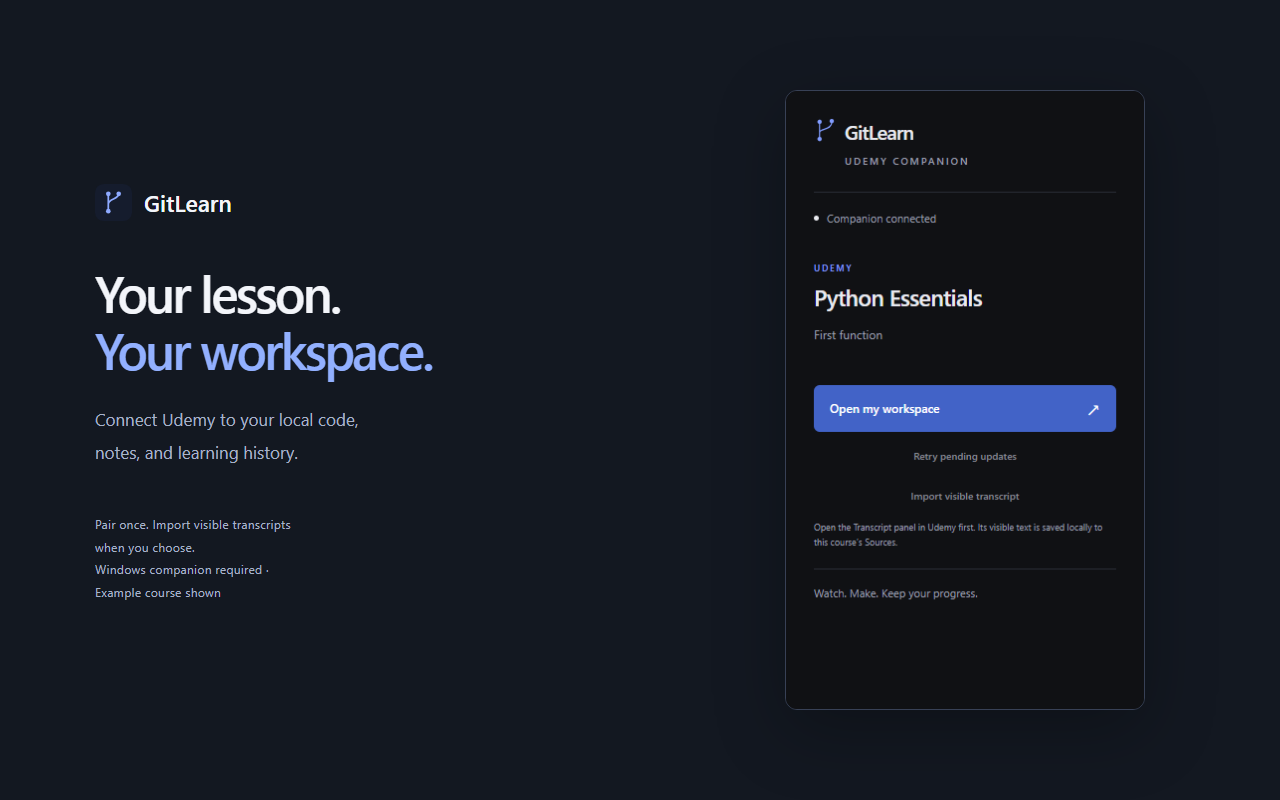
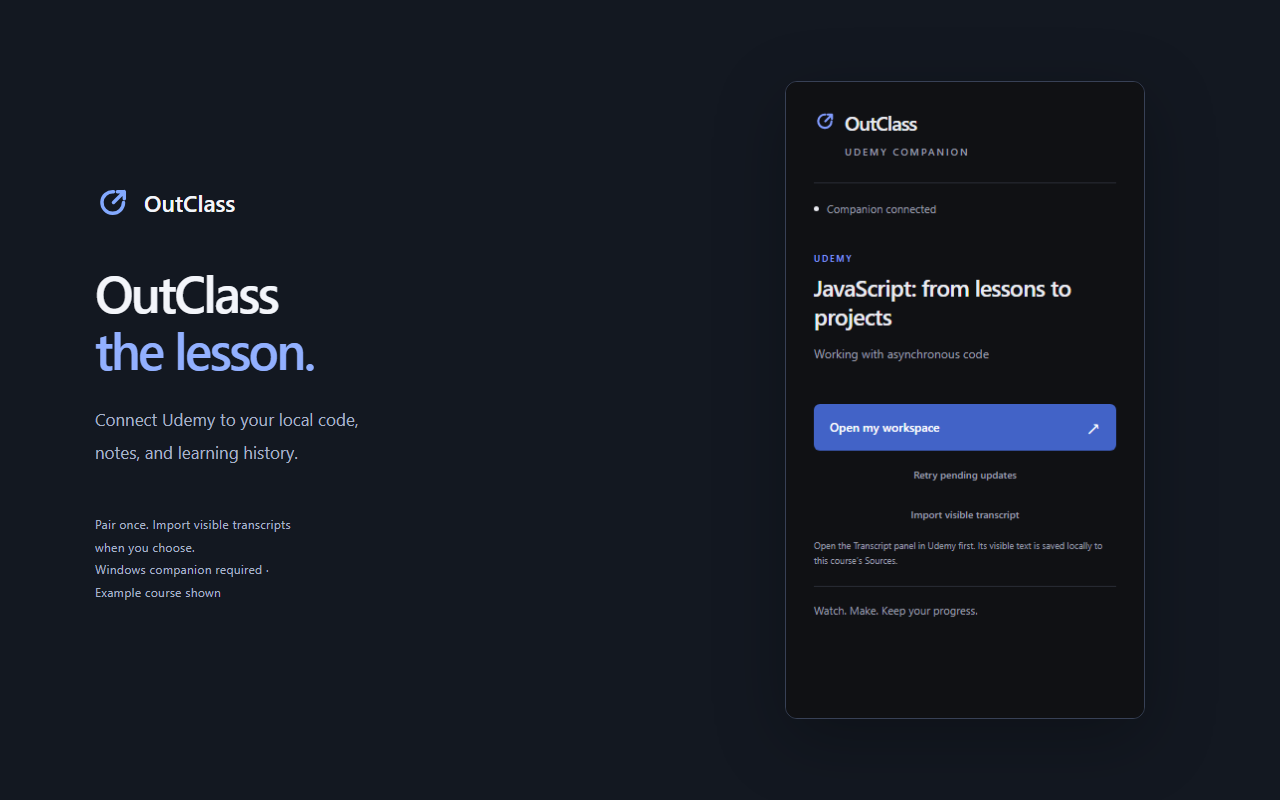
chore: complete OutClass repository and Chrome listing rename

diff --git a/tests/site/site.spec.ts b/tests/site/site.spec.ts
@@ -13,11 +13,11 @@ test("public site explains the desktop product, adapts to phones, and has honest
   );
   await expect(page.locator("#windows-download")).toHaveAttribute(
     "href",
-    /\/releases\/download\/v[\d.]+\/(?:GitLearn|OutClass)-Setup-[\d.]+\.exe$/,
+    /\/aayups31\/OutClass\/releases\/download\/v[\d.]+\/(?:GitLearn|OutClass)-Setup-[\d.]+\.exe$/,
   );
   await expect(page.locator("#extension-download")).toHaveAttribute(
     "href",
-    /\/releases\/download\/v[\d.]+\/(?:GitLearn|OutClass)-Chrome-[\d.]+\.zip$/,
+    /\/aayups31\/OutClass\/releases\/download\/v[\d.]+\/(?:GitLearn|OutClass)-Chrome-[\d.]+\.zip$/,
   );
   await page.getByRole("tab", { name: "Ask the course", exact: true }).click();
   await expect(page.getByRole("tabpanel")).toContainText("Imported transcript");
@@ -85,7 +85,7 @@ test("public landing is complete without JavaScript", async ({ browser }) => {
   await expect(page.getByRole("heading", { level: 1 })).toBeVisible();
   await expect(page.locator("#windows-download")).toHaveAttribute(
     "href",
-    /github.com\/aayups31\/GitLearn\/releases\/download\/v[\d.]+\/(?:GitLearn|OutClass)-Setup-[\d.]+\.exe$/,
+    /github.com\/aayups31\/OutClass\/releases\/download\/v[\d.]+\/(?:GitLearn|OutClass)-Setup-[\d.]+\.exe$/,
   );
   await page.locator("#windows-download").scrollIntoViewIfNeeded();
   await expect(page.locator("#windows-download")).toBeVisible();

diff --git a/src/site/index.html b/src/site/index.html
@@ -688,7 +688,7 @@ events = [
           <a
             id="windows-download"
             class="button primary"
-            href="https://github.com/aayups31/GitLearn/releases/download/v0.4.2/OutClass-Setup-0.4.2.exe"
+            href="https://github.com/aayups31/OutClass/releases/download/v0.4.2/OutClass-Setup-0.4.2.exe"
             >Download the Windows preview <span aria-hidden="true">↗</span></a
           >
           <p id="windows-status" class="download-note">
@@ -697,7 +697,7 @@ events = [
           <a
             id="extension-download"
             class="button secondary"
-            href="https://github.com/aayups31/GitLearn/releases/download/v0.4.2/OutClass-Chrome-0.4.2.zip"
+            href="https://github.com/aayups31/OutClass/releases/download/v0.4.2/OutClass-Chrome-0.4.2.zip"
             >Get the browser extension <span aria-hidden="true">↗</span></a
           >
           <p id="extension-status" class="download-note">
@@ -728,7 +728,7 @@ events = [
         <div>
           <a href="privacy.html">Privacy</a
           ><a
-            href="https://github.com/aayups31/GitLearn"
+            href="https://github.com/aayups31/OutClass"
             target="_blank"
             rel="noopener noreferrer"
             >Source code ↗</a

diff --git a/src/site/assets/site.js b/src/site/assets/site.js
@@ -196,7 +196,7 @@ fetch(
       if (
         url.protocol !== "https:" ||
         url.hostname !== "github.com" ||
-        !url.pathname.startsWith("/aayups31/GitLearn/releases/download/")
+        !url.pathname.startsWith("/aayups31/OutClass/releases/download/")
       )
         continue;
       document.getElementById(`${id}-download`).href = url.href;

diff --git a/docs/learning-to-contribution-roadmap.md b/docs/learning-to-contribution-roadmap.md
@@ -1,4 +1,4 @@
-# GitLearn: from tutorials to independent work
+# OutClass: from tutorials to independent work
 
 Updated October 10, 2026. Stage A shipped in 0.3. The 0.4 preview adds a bounded working slice of B–F: project commands and starters, six curated practical briefs, recorded checks and help use, reviews and personal search, checked issue discovery, and a separate contribution workspace with local PR drafts. This does not mark every broader stage complete. [Current build](current-build.md) records delivered behavior. This roadmap takes priority over the older platform-expansion order in [implementation-plan.md](implementation-plan.md). [Learning architecture](learning-architecture.md) defines the supporting boundaries.
 
@@ -8,7 +8,7 @@ Remaining depth includes learner goals and time budgets, validated generated/tra
 
 ## Product outcome
 
-GitLearn should help a learner use a tutorial, understand an implementation, practice without the example, build a complete project, and contribute responsibly to a real repository. The product should answer three practical questions: where do I continue, what should I try myself, and what evidence shows I can do it?
+OutClass should help a learner use a tutorial, understand an implementation, practice without the example, build a complete project, and contribute responsibly to a real repository. The product should answer three practical questions: where do I continue, what should I try myself, and what evidence shows I can do it?
 
 ```mermaid
 flowchart LR
@@ -58,11 +58,11 @@ Every exercise has a specific objective, prerequisites, source references, start
 
 Record attempts separately, including code revision, actual test results, hints used, solution revealed, and the learner's explanation. Give concrete feedback about the failed behavior and a useful next step. Preserve earlier attempts for comparison.
 
-Offer a later variation without the original example. An unassisted attempt means no GitLearn hints or solution were used in that attempt; the app cannot prove whether outside help was used. Passed tests demonstrate the tested behavior, not universal mastery. If execution is unsupported, show Needs verification instead of success.
+Offer a later variation without the original example. An unassisted attempt means no OutClass hints or solution were used in that attempt; the app cannot prove whether outside help was used. Passed tests demonstrate the tested behavior, not universal mastery. If execution is unsupported, show Needs verification instead of success.
 
 Acceptance: a changed requirement requires applying the concept; failing code does not pass; revealed solutions are recorded; attempts survive restart; tests cover behavior rather than copying implementation; the learner can explain the change and revisit it later.
 
-The tutoring design draws on [Khan Academy's published approach](https://blog.khanacademy.org/khan-academys-7-step-approach-to-prompt-engineering-for-khanmigo/), including feedback and self-explanation. [Karpicke and Blunt's retrieval-practice study](https://pubmed.ncbi.nlm.nih.gov/21252317/) supports practicing recall in conceptual learning. Its experiments used science texts; the coding-task design here is a hypothesis to evaluate with GitLearn learners, not a demonstrated effect of this product.
+The tutoring design draws on [Khan Academy's published approach](https://blog.khanacademy.org/khan-academys-7-step-approach-to-prompt-engineering-for-khanmigo/), including feedback and self-explanation. [Karpicke and Blunt's retrieval-practice study](https://pubmed.ncbi.nlm.nih.gov/21252317/) supports practicing recall in conceptual learning. Its experiments used science texts; the coding-task design here is a hypothesis to evaluate with OutClass learners, not a demonstrated effect of this product.
 
 ## 4. Course projects and independent projects
 
@@ -82,7 +82,7 @@ Acceptance: a supported app starts after guided setup, dependencies remain scope
 
 Use a small skill vocabulary with versioned objectives. Associate skills with lesson sources, tasks, attempts, and project evidence. Preserve uncertainty and allow learners to correct associations; avoid an elaborate concept graph in the first release.
 
-Keep watched/completed lesson status separate from practice evidence. Useful states include encountered, practiced with help, completed in an unassisted GitLearn attempt, and due for review. Each state links to the task and date that supports it. Do not infer proficiency from chat volume, watch time, or an arbitrary confidence percentage.
+Keep watched/completed lesson status separate from practice evidence. Useful states include encountered, practiced with help, completed in an unassisted OutClass attempt, and due for review. Each state links to the task and date that supports it. Do not infer proficiency from chat volume, watch time, or an arbitrary confidence percentage.
 
 Remember explicitly recorded difficulties and actual failed attempts. A memory answer can say, for example, that a prior project used the same async pattern, with a link to the exact saved file or checkpoint. Cross-course retrieval is a separate Search my learning action; ordinary course chat remains scoped to its course.
 
@@ -121,11 +121,11 @@ Allow refresh, save, dismiss, and pasting a repository/issue URL. Recheck the se
 
 Acceptance: recommendations link to real currently checked issues; a selected issue that closes is handled; requirements and policies have sources; a synthetic fixture covers the full contribution journey; upstream/existing source Git state is preserved; no comment, fork, push, or PR is created by discovery or chat; all public drafts are reviewable before submission.
 
-GitHub's guidance emphasizes project rules, approachable issues, branches, review, and maintainer feedback. Its API documentation supplies the request/caching constraints. Sources: [contribution workflow](https://docs.github.com/en/get-started/exploring-projects-on-github/contributing-to-open-source), [good first issue labels](https://docs.github.com/en/communities/setting-up-your-project-for-healthy-contributions/encouraging-helpful-contributions-to-your-project-with-labels), [API rate limits](https://docs.github.com/en/rest/using-the-rest-api/rate-limits-for-the-rest-api). Matching and readiness rules above are GitLearn product decisions, not GitHub guarantees.
+GitHub's guidance emphasizes project rules, approachable issues, branches, review, and maintainer feedback. Its API documentation supplies the request/caching constraints. Sources: [contribution workflow](https://docs.github.com/en/get-started/exploring-projects-on-github/contributing-to-open-source), [good first issue labels](https://docs.github.com/en/communities/setting-up-your-project-for-healthy-contributions/encouraging-helpful-contributions-to-your-project-with-labels), [API rate limits](https://docs.github.com/en/rest/using-the-rest-api/rate-limits-for-the-rest-api). Matching and readiness rules above are OutClass product decisions, not GitHub guarantees.
 
 ## 7. Product experience and public adoption
 
-Retain the blue GitLearn identity and quiet desktop workspace. Navigation becomes Today, Courses, Projects, Practice, and Live work as those features ship. The center holds the current task or code; the right panel offers Tutor and Sources. Reviews, plans, and results stay beside the work they describe. Empty states explain one useful action; unfinished roadmap features do not appear as inert navigation items.
+Retain the blue OutClass identity and quiet desktop workspace. Navigation becomes Today, Courses, Projects, Practice, and Live work as those features ship. The center holds the current task or code; the right panel offers Tutor and Sources. Reviews, plans, and results stay beside the work they describe. Empty states explain one useful action; unfinished roadmap features do not appear as inert navigation items.
 
 Use visible progress and small contextual actions. Avoid mandatory quizzes, guilt-based streaks, constant chat interruptions, and large dashboards of unsupported scores. Preserve keyboard navigation, readable contrast, light/dark themes, and the ability to collapse assistance.
 
@@ -147,7 +147,7 @@ The 0.3 implementation completes Stage A's local foundation: course project bind
 
 Complete a narrow end-to-end stage before adding more surfaces. Public release preparation can proceed alongside the daily-workspace stages. Platform expansion remains planned, including coding problems, interactive courses, YouTube, documents, and notebooks; choose the next adapter from beta evidence. Do not assign dates until representative project/runtime and contribution feasibility checks pass.
 
-Start evaluation with a small voluntary beta on actual Udemy courses. Measure time to first successful run, successful session resume, saved work recovery, independent task attempts, comparable task performance, useful return sessions, and contribution drafts that satisfy the selected repository's requirements. Record AI cost and source availability, not just chat activity. Use short interviews to identify where learners still need to leave GitLearn.
+Start evaluation with a small voluntary beta on actual Udemy courses. Measure time to first successful run, successful session resume, saved work recovery, independent task attempts, comparable task performance, useful return sessions, and contribution drafts that satisfy the selected repository's requirements. Record AI cost and source availability, not just chat activity. Use short interviews to identify where learners still need to leave OutClass.
 
 ### First implementation slice
 
@@ -164,4 +164,4 @@ Only the records and interfaces used by this slice are introduced. Exercise gene
 
 ## 9. Coding agents: deferred exploration
 
-Keep coding-agent integration as an explicitly deferred idea. Do not implement provider login, an agent marketplace, autonomous editing, or automatic public actions in these stages. A later investigation must establish each provider's supported authentication/integration, subscription versus API entitlement, permissions, cost visibility, action review, and how assistance is recorded in learning evidence. Existing GitLearn tutoring does not depend on this future integration.
+Keep coding-agent integration as an explicitly deferred idea. Do not implement provider login, an agent marketplace, autonomous editing, or automatic public actions in these stages. A later investigation must establish each provider's supported authentication/integration, subscription versus API entitlement, permissions, cost visibility, action review, and how assistance is recorded in learning evidence. Existing OutClass tutoring does not depend on this future integration.

diff --git a/docs/chrome-web-store.md b/docs/chrome-web-store.md
@@ -1,32 +1,34 @@
 # Chrome Web Store release
 
-Version 0.4.1 was submitted on October 10, 2026. The developer dashboard confirms **Pending review** for item `iaokfcjeghdefpgcgbcomiehhogbkbcp`. The publisher enabled Google two-step verification, verified the public contact email, and explicitly approved all three privacy certifications. The description, Education/English category, icon, screenshot, homepage/support URLs, permission justifications, data categories, privacy-policy URL, and reviewer instructions are saved. Distribution is free and public, with automatic publication selected after approval. Submission is complete; Google approval and public availability remain pending. Official steps: https://developer.chrome.com/docs/webstore/publish.
+OutClass 0.4.2 was submitted on October 11, 2026. The developer dashboard confirms **Pending review** for the existing item `iaokfcjeghdefpgcgbcomiehhogbkbcp`, with automatic publication after approval. The owner requested the rename and explicitly approved replacement of the two old listing images and resubmission. The original GitLearn 0.4.1 review was canceled to unlock the item; no second item was created. Google approval and public availability remain pending. Official steps: https://developer.chrome.com/docs/webstore/publish.
+
+The OutClass title comes from the accepted 0.4.2 package. Its description, icon, 1280x800 screenshot rendered from the actual popup with illustrative course context, renamed GitHub support URL, and reviewer instructions are saved. The Education/English category, free/public distribution, verified publisher contact, and unchanged permission/data handling remain in place. The three previously approved privacy certifications were preserved; they were not rechecked or expanded during this update.
 
 ## Upload package
 
-The product was renamed OutClass after this submission. The 0.4.2 Windows app and unpacked extension keep the same pairing and permission scope. The privacy page identifies the rename. The existing reviewed item remains GitLearn 0.4.1 until its next store update; do not create a second item or claim OutClass is approved.
+The 0.4.2 Windows app and extension keep the same pairing and permission scope. The privacy page identifies the rename. The accepted package is `dist/releases/OutClass-Chrome-0.4.2.zip`; its SHA-256 is recorded in [release validation](release-validation.md). Do not create a second item or claim OutClass is approved.
 
-Build and run `npm run package:extension` to produce `dist/releases/OutClass-Chrome-0.4.2.zip`. Use this package for the next update to the existing item after its current review is resolved. The submitted GitLearn 0.4.1 package remains available in its GitHub release. Packages contain the MV3 manifest, built background/content/popup scripts, popup assets, and icons. They contain no API key, source environment, server, local data, or Node modules.
+Build and run `npm run package:extension` to produce the extension ZIP. Future changes update this same item after the current review is resolved. The older GitLearn 0.4.1 package remains available in its historical GitHub release. Packages contain the MV3 manifest, built background/content/popup scripts, popup assets, and icons. They contain no API key, source environment, server, local data, or Node modules.
 
 ## Suggested listing
 
-Name: GitLearn - Udemy learning companion
+Name: OutClass - Udemy learning companion
 
 Short description: Connect your Udemy lessons with your own local code, notes, and Git checkpoints.
 
 Detailed description:
 
-GitLearn connects your Udemy course to a local learning workspace on Windows. Follow a lesson, practice in the built-in editor or your existing local code folder, and save reviewed code and notes as Git checkpoints. GitHub is optional.
+OutClass connects your Udemy course to a local learning workspace on Windows. Follow a lesson, practice in the built-in editor or your existing local code folder, and save reviewed code and notes as Git checkpoints. GitHub is optional.
 
-The extension keeps accessible course titles, lecture structure, current lesson, and completion indicators in context. It pairs with the GitLearn app using a one-time connection code. Pending course updates wait locally until the app reconnects.
+The extension keeps accessible course titles, lecture structure, current lesson, and completion indicators in context. It pairs with the OutClass app using a one-time connection code. Pending course updates wait locally until the app reconnects.
 
-For course-specific AI help, open the lesson's transcript panel and explicitly choose Import visible transcript. The transcript is added to your local course library. AI requires your own OpenAI API key in the desktop app; the extension never receives that key. GitLearn does not download videos or automatically import lecture text.
+For course-specific AI help, open the lesson's transcript panel and explicitly choose Import visible transcript. The transcript is added to your local course library. AI requires your own OpenAI API key in the desktop app; the extension never receives that key. OutClass does not download videos or automatically import lecture text.
 
-Install the companion first, then open its setup guide and pair the extension. GitLearn is independent of Udemy and is not affiliated with or endorsed by Udemy.
+Install the companion first, then open its setup guide and pair the extension. OutClass is independent of Udemy and is not affiliated with or endorsed by Udemy.
 
 ## Permissions and disclosures
 
-Single purpose: bring the user's accessible Udemy lesson context and explicitly imported visible transcript into the paired local GitLearn learning workspace.
+Single purpose: bring the user's accessible Udemy lesson context and explicitly imported visible transcript into the paired local OutClass learning workspace.
 
 - storage: retain the pairing credential, latest course context, and pending local updates.
 - alarms: retry pending local updates when the companion reconnects.
@@ -44,12 +46,12 @@ Complete account verification, listing category/language, privacy practices, the
 
 ## Reviewer walkthrough
 
-1. Use Windows x64 with Git for Windows installed. Download the current companion from the public homepage or GitHub Releases, install it, and open OutClass (previously GitLearn). This preview installer is unsigned. The submitted GitLearn extension also pairs with this companion; its protocol and permissions are unchanged.
-2. Follow first-run setup and select an empty parent learning folder. Skip optional OpenAI and GitHub connection. There is no GitLearn account, username, or password.
+1. Use Windows x64 with Git for Windows installed. Download the current companion from the public homepage or GitHub Releases, install it, and open OutClass (previously OutClass). This preview installer is unsigned. The submitted OutClass extension also pairs with this companion; its protocol and permissions are unchanged.
+2. Follow first-run setup and select an empty parent learning folder. Skip optional OpenAI and GitHub connection. There is no OutClass account, username, or password.
 3. Keep the companion open. In Setup, find its connection code. Open the extension popup, enter that code, and connect. The popup should show the connected companion.
 4. Open a Udemy course page accessible to you. Course titles and available lesson metadata appear in the popup and companion. Paid course purchases and OpenAI access are not required for pairing or accessible metadata; authenticated lecture/transcript access follows the reviewer's own Udemy permissions.
-5. On an accessible lesson with a transcript, open Udemy's transcript panel, then choose Import visible transcript in the extension. Inspect the imported source under that course in GitLearn. Closed/unavailable transcripts produce an explanation rather than a download.
-6. Close the companion and visit another accessible lesson. The popup reports pending local updates. Reopen GitLearn and retry; queued context is delivered. The extension never uploads this context to a developer server.
+5. On an accessible lesson with a transcript, open Udemy's transcript panel, then choose Import visible transcript in the extension. Inspect the imported source under that course in OutClass. Closed/unavailable transcripts produce an explanation rather than a download.
+6. Close the companion and visit another accessible lesson. The popup reports pending local updates. Reopen OutClass and retry; queued context is delivered. The extension never uploads this context to a developer server.
 7. Open my workspace focuses the already running desktop app. The extension credential can submit course context/imported text and read minimal connection status; it cannot edit files, run code, invoke AI, or change repositories.
 
 After approval, copy the real Chrome Web Store item URL into `src/site/assets/release.json`, rebuild, and publish the updated site. Until then, both site and app explain Load unpacked accurately.

diff --git a/docs/release-validation.md b/docs/release-validation.md
@@ -1,5 +1,13 @@
 # OutClass preview verification
 
+## October 11: repository and Chrome listing rename
+
+- GitHub renamed the existing repository to `aayups31/OutClass`; its repository ID and Git history match the original. The local origin, site download links and allowlist, release tooling, and publisher metadata use the new URL.
+- Both public 0.4.2 assets return HTTP 200 through the renamed repository. GitHub's asset digests, byte sizes, and the downloaded checksum file match the tested artifacts below. No installer or extension bytes were replaced during the repository rename.
+- All three homepage cases passed in 11.3 seconds after updating the new repository URL assertions, including the fallback without JavaScript and accessible/reversible scroll motion. An initial retry had no preview server; the final run used the test configuration's own server. The stale no-JavaScript assertion was updated to OutClass.
+- Google accepted the OutClass 0.4.2 package into the existing Chrome item `iaokfcjeghdefpgcgbcomiehhogbkbcp`. At the owner's request, the original review was canceled, the listing name/description, icon, screenshot, support URL and reviewer instructions were updated, and the same item was resubmitted. A fresh dashboard reload confirmed **OutClass — Udemy learning companion / Pending review**, with automatic publication selected after approval. The original three approved privacy certifications and permission scope were preserved. This is not store approval or public availability.
+- The listing screenshot is reproducible from the actual shipped popup with illustrative, non-private course context using `scripts/store-screenshot.mjs`.
+
 ## 0.4.2 OutClass identity and homepage
 
 Verified on Windows, October 10, 2026. GitLearn is now OutClass. The existing GitHub repository, application ID, saved profile and learning-data locations, pairing protocol, and checkpoint trailers stay compatible. No learner folders were moved.
@@ -15,7 +23,7 @@ Verified on Windows, October 10, 2026. GitLearn is now OutClass. The existing Gi
[2 lines of base64/hex data omitted]
 
-The existing GitLearn 0.4.1 Chrome submission remains separate from these OutClass downloads. No second item or store approval is implied. Six curated JavaScript/Python practice briefs, real learner beta sessions, signed distribution, and broader platform/curriculum coverage retain the scope limits below.
+The initial GitLearn 0.4.1 Chrome submission was subsequently replaced by the same item's OutClass 0.4.2 submission, as recorded above. No second item or store approval is implied. Six curated JavaScript/Python practice briefs, real learner beta sessions, signed distribution, and broader platform/curriculum coverage retain the scope limits below.
 
 ## 0.4.1 Windows project-command patch
 
@@ -26,7 +34,7 @@ Verified on Windows, October 10, 2026. Restored the credential-free Windows syst
 - The affected practical-learning browser scenario passed: during-course suggestion, learner-written checks, hints, reflection, fresh review, console, and project scaffold. Both static-site scenarios passed. The previous complete nine-scenario browser run remains recorded below.
 - The final packaged desktop scenario passed in 23.8 seconds, including a Windows external-tool command as well as encrypted-key persistence/removal, bundled JavaScript, restored files, practical checks, scaffolding, and stopping its tracked command on close.
 - Production build, packaged version/privacy checks, and configured-key/environment-file exclusion scans passed.
-- The [0.4.1 GitHub release](https://github.com/aayups31/GitLearn/releases/tag/v0.4.1) is public. Both download URLs returned HTTP 200; asset sizes, GitHub SHA-256 digests, and the downloaded checksum file match the local tested artifacts.
+- The [0.4.1 GitHub release](https://github.com/aayups31/OutClass/releases/tag/v0.4.1) is public. Both download URLs returned HTTP 200; asset sizes, GitHub SHA-256 digests, and the downloaded checksum file match the local tested artifacts.
 - The public site at https://git-learn-black.vercel.app/ was verified with the setup guide, privacy page, and 0.4.1 release links. The live privacy page includes the extension data categories and Limited Use disclosure. Vercel automatically deployed the `main` checkpoint `526f73c` successfully.
 - Chrome accepted the 0.4.1 package and confirmed submission on October 10, 2026. Item `iaokfcjeghdefpgcgbcomiehhogbkbcp` is **Pending review**, with automatic publication selected after approval. Two-step verification, verified publisher contact, and the three explicitly approved privacy certifications are complete. The landing page keeps its pending-store state until a public listing is verified.
 
@@ -61,7 +69,7 @@ At the 0.4.0 checkpoint, Chrome upload was rejected because the publisher's Goog
 
 ## 0.3 implementation checks
 
-Checked on Windows, October 10, 2026. The first daily-workspace stage is implemented, its packaged Windows runtime has passed validation, and the [0.3.0 preview downloads](https://github.com/aayups31/GitLearn/releases/tag/v0.3.0) are published and verified.
+Checked on Windows, October 10, 2026. The first daily-workspace stage is implemented, its packaged Windows runtime has passed validation, and the [0.3.0 preview downloads](https://github.com/aayups31/OutClass/releases/tag/v0.3.0) are published and verified.
 
 - TypeScript and production builds passed. The full backend suite passed 66 cases; a subsequent focused six-case run includes the additional moved-folder recovery case, bringing covered backend cases to 67.
 - Six affected browser workflows passed on isolated ports without touching the learner's running app. The new flow exercised one project across two lessons, an actual error, hint attachment, a saved fix, reviewed checkpoints, restart, moved-folder recovery, and an isolated second course. Existing editor, setup, GitHub gating, and theme flows passed. The unchanged extension pairing/import/replay flow retains its 0.2 validation below; the 0.3 extension version is a packaging update.

diff --git a/docs/next-release.md b/docs/next-release.md
@@ -1,0 +1,33 @@
+# OutClass: the next useful release
+
+Proposed priorities, October 11, 2026. These extend the working 0.4.2 preview; they are not claims about features already delivered. See [current scope](current-build.md) and the [full learning roadmap](learning-to-contribution-roadmap.md).
+
+The next release should help a Udemy learner apply a concept before the course ends, then demonstrate it again with a changed requirement. Success means a working learner-owned result and an explanation of its decisions.
+
+## 1. Validate the complete experience with real learners
+
+Run a small voluntary beta across actual Python and JavaScript Udemy courses. Observe first installation, pairing, explicit source import, first successful run, restarting, a practical suggestion, and a task completed with guidance. Record setup obstacles, missing source context, confusing suggestions, useful hints, and the actual cost of optional AI. Collect only information participants explicitly agree to share; do not add silent telemetry.
+
+Exit: learners can reach and resume their own working code, and observed usability failures have concrete fixes. Automated fixtures do not substitute for this gate.
+
+## 2. Make during-course practice genuinely relevant
+
+Add optional goals and a session time budget. Match a small reviewed task to imported lesson material, explicit prerequisites, and actual attempt evidence. Explain why this is a useful moment to practice. Offer Start, Later, and Choose another without blocking the course. Expand the six existing briefs into a reviewed catalog covering common Python/JavaScript course concepts before relying on unrestricted generation.
+
+Exit: a suggestion fits the learner's available time and observed course context. Missing transcripts or prerequisites remain visible, and the engine does not equate watched lessons with skill.
+
+## 3. Demonstrate transfer and improve teacher feedback
+
+Follow a completed task with a reviewed variant: a changed requirement, a different input, or a new failure to diagnose. Ground hints in the learner's saved attempt, actual run results, and cited course passages. Preserve progressive help, clearly distinguish general programming advice from course-derived answers, and give concrete feedback about failing behavior. Add reviewed evaluation examples for tutor relevance, citation support, escalating hints, and complete-solution avoidance. Multi-file task checks must attribute evidence to all relevant saved files before claiming that a project revision passed.
+
+Exit: the learner can solve a comparable variant with less help and explain the reasoning. Passing tests describe tested behavior; they do not certify mastery or industry readiness.
+
+## 4. Connect a small project to responsible live work
+
+Give one supported project a short user need, acceptance criteria, milestones, and a changed-requirement review. Improve open-source matching using recorded practical evidence, setup burden, current issue availability, and contributor rules. Guide baseline checks, reproduction, a learner-owned patch, and a local PR draft with real test evidence. Maintainer feedback should inform the next learning task. Public actions remain explicit learner choices.
+
+Exit: one supported project and contribution journey reaches a useful reviewable result without the assistant doing or publishing the work for the learner.
+
+## Expansion after this milestone
+
+Choose the next learning platform from beta feedback. Finish tested upgrade recovery and signed Windows distribution, then consider additional operating systems and optional managed AI access. Coding-agent integrations remain deferred. The primary outcome measure is successful independent attempts and useful return sessions, with traceable evidence, rather than watch time, chat volume, or a fabricated readiness score.

diff --git a/docs/outclass-design.md b/docs/outclass-design.md
@@ -10,6 +10,6 @@ The conversion is a Windows download. The story moves through recognizing tutori
 
 GSAP and ScrollTrigger ship from the same origin with their license. Motion includes a hero entrance, a reversible orbit/parallax sequence, a perspective workspace reveal, staggered section entrances, and a progress sequence beside practical-learning steps. No scroll interception or video downloads. Phone layouts use normal document flow. Reduced motion, missing scripts, and keyboard navigation keep the complete story and downloads usable.
 
-The download panel links the tested OutClass 0.4.2 preview. The submitted GitLearn 0.4.1 Chrome item remains under its existing review submission until the next store package update; changing the public site does not create a second extension listing or cancel Google's review. The privacy page identifies OutClass as the new name for GitLearn.
+The download panel links the tested OutClass 0.4.2 preview through the renamed GitHub repository. At the owner's request, the original Chrome submission was canceled to unlock its name, then the same item was updated and resubmitted as OutClass 0.4.2 on October 11. Google confirms Pending review; store approval is not implied. The listing description, icon, screenshot, support link, and reviewer instructions carry the new identity. The privacy page identifies OutClass as the new name for GitLearn.
 
-Compatibility identities such as the GitHub repository, app ID, saved-data locations, environment variables, and extension message namespace stay stable. Display names change without relocating a learner's files or invalidating existing pairing.
+The GitHub repository is now aayups31/OutClass with the same repository identity and history. The app ID, saved-data locations, environment variables, and extension message namespace stay stable. Display names change without relocating a learner's files or invalidating existing pairing.

diff --git a/README.md b/README.md
@@ -4,9 +4,11 @@ Previously GitLearn. Break free from tutorial hell. OutClass the lesson.
 
 A local learning workspace that turns Udemy lessons into your own code, practical attempts, sourced guidance, and reviewed work.
 
+[Next release priorities](docs/next-release.md): validate real Udemy use, improve relevant during-course practice, verify transfer with changed requirements, and guide a small project into responsible contribution work.
+
 ## Start
 
-**Windows desktop preview:** download the installer from [GitHub Releases](https://github.com/aayups31/GitLearn/releases), open OutClass, and follow its first-run setup. Choose one parent learning folder; OutClass creates practice and history folders for each course automatically. JavaScript's runtime is bundled. Git for Windows is required for checkpoints; Python is optional for Python lessons. VS Code and GitHub remain optional.
+**Windows desktop preview:** download the installer from [GitHub Releases](https://github.com/aayups31/OutClass/releases), open OutClass, and follow its first-run setup. Choose one parent learning folder; OutClass creates practice and history folders for each course automatically. JavaScript's runtime is bundled. Git for Windows is required for checkpoints; Python is optional for Python lessons. VS Code and GitHub remain optional.
 
 The [public website and setup guide](https://git-learn-black.vercel.app/) are live on Vercel. The actual editor, courses, RAG assistant, and setup live in the Windows desktop app. See [desktop architecture and packaging](docs/desktop-release.md) and [Chrome store release](docs/chrome-web-store.md). The GitLearn 0.4.1 extension is submitted for Chrome Web Store review; use Load unpacked until approval and verified public availability.
 

diff --git a/docs/current-build.md b/docs/current-build.md
@@ -1,6 +1,6 @@
 # OutClass 0.4.2 Windows and Udemy preview
 
-Previously GitLearn. The 0.4.2 release adds the OutClass identity and a new static homepage with GSAP scroll storytelling. The desktop app and unpacked extension carry the new name; existing files, history, pairing, and saved-data locations remain compatible. The GitHub repository retains its GitLearn URL. The existing GitLearn 0.4.1 Chrome submission remains pending review. Practical-learning functionality and its bounded v1 scope are unchanged by the rename.
+Previously GitLearn. The 0.4.2 release adds the OutClass identity and a new static homepage with GSAP scroll storytelling. Existing files, history, pairing, and saved-data locations remain compatible. The existing GitHub repository is now [aayups31/OutClass](https://github.com/aayups31/OutClass). On October 11, the same Chrome item was updated and resubmitted as OutClass 0.4.2; Google confirms Pending review. Practical-learning functionality and its bounded v1 scope are unchanged by the rename. [The next-release priorities](next-release.md) describe the proposed follow-up.
 
 Updated October 10, 2026. This is the current delivery scope and architecture. The full specification and earlier architecture/implementation plan retain the longer product roadmap; they do not describe every feature as already delivered.
 

diff --git a/docs/learning-architecture.md b/docs/learning-architecture.md
@@ -9,7 +9,7 @@ Updated October 10, 2026. Architecture for [the learning-to-contribution roadmap
 ```mermaid
 flowchart TB
   Extension[Udemy extension] -->|Restricted paired context| Companion[Local companion]
-  Desktop[GitLearn desktop workspace] -->|Authenticated local API| Companion
+  Desktop[OutClass desktop workspace] -->|Authenticated local API| Companion
   Companion --> Learning[Projects, tasks, attempts, evidence, resume]
   Companion --> Runtime[Scoped local runner and terminal processes]
   Companion --> Retrieval[Course, project, history retrieval]

diff --git a/docs/vercel-deployment.md b/docs/vercel-deployment.md
@@ -1,6 +1,6 @@
 # Deploy the public site on Vercel
 
-The public site is deployed at https://git-learn-black.vercel.app/. Vercel project `git-learn` is connected to https://github.com/aayups31/GitLearn and deploys `main`. The committed vercel.json sets:
+The public site is deployed at https://git-learn-black.vercel.app/. Vercel project `git-learn` is connected to https://github.com/aayups31/OutClass and deploys `main`. The committed vercel.json sets:
 
 - Framework: Other / no framework.
 - Install command: empty; the static website needs no npm dependencies.
